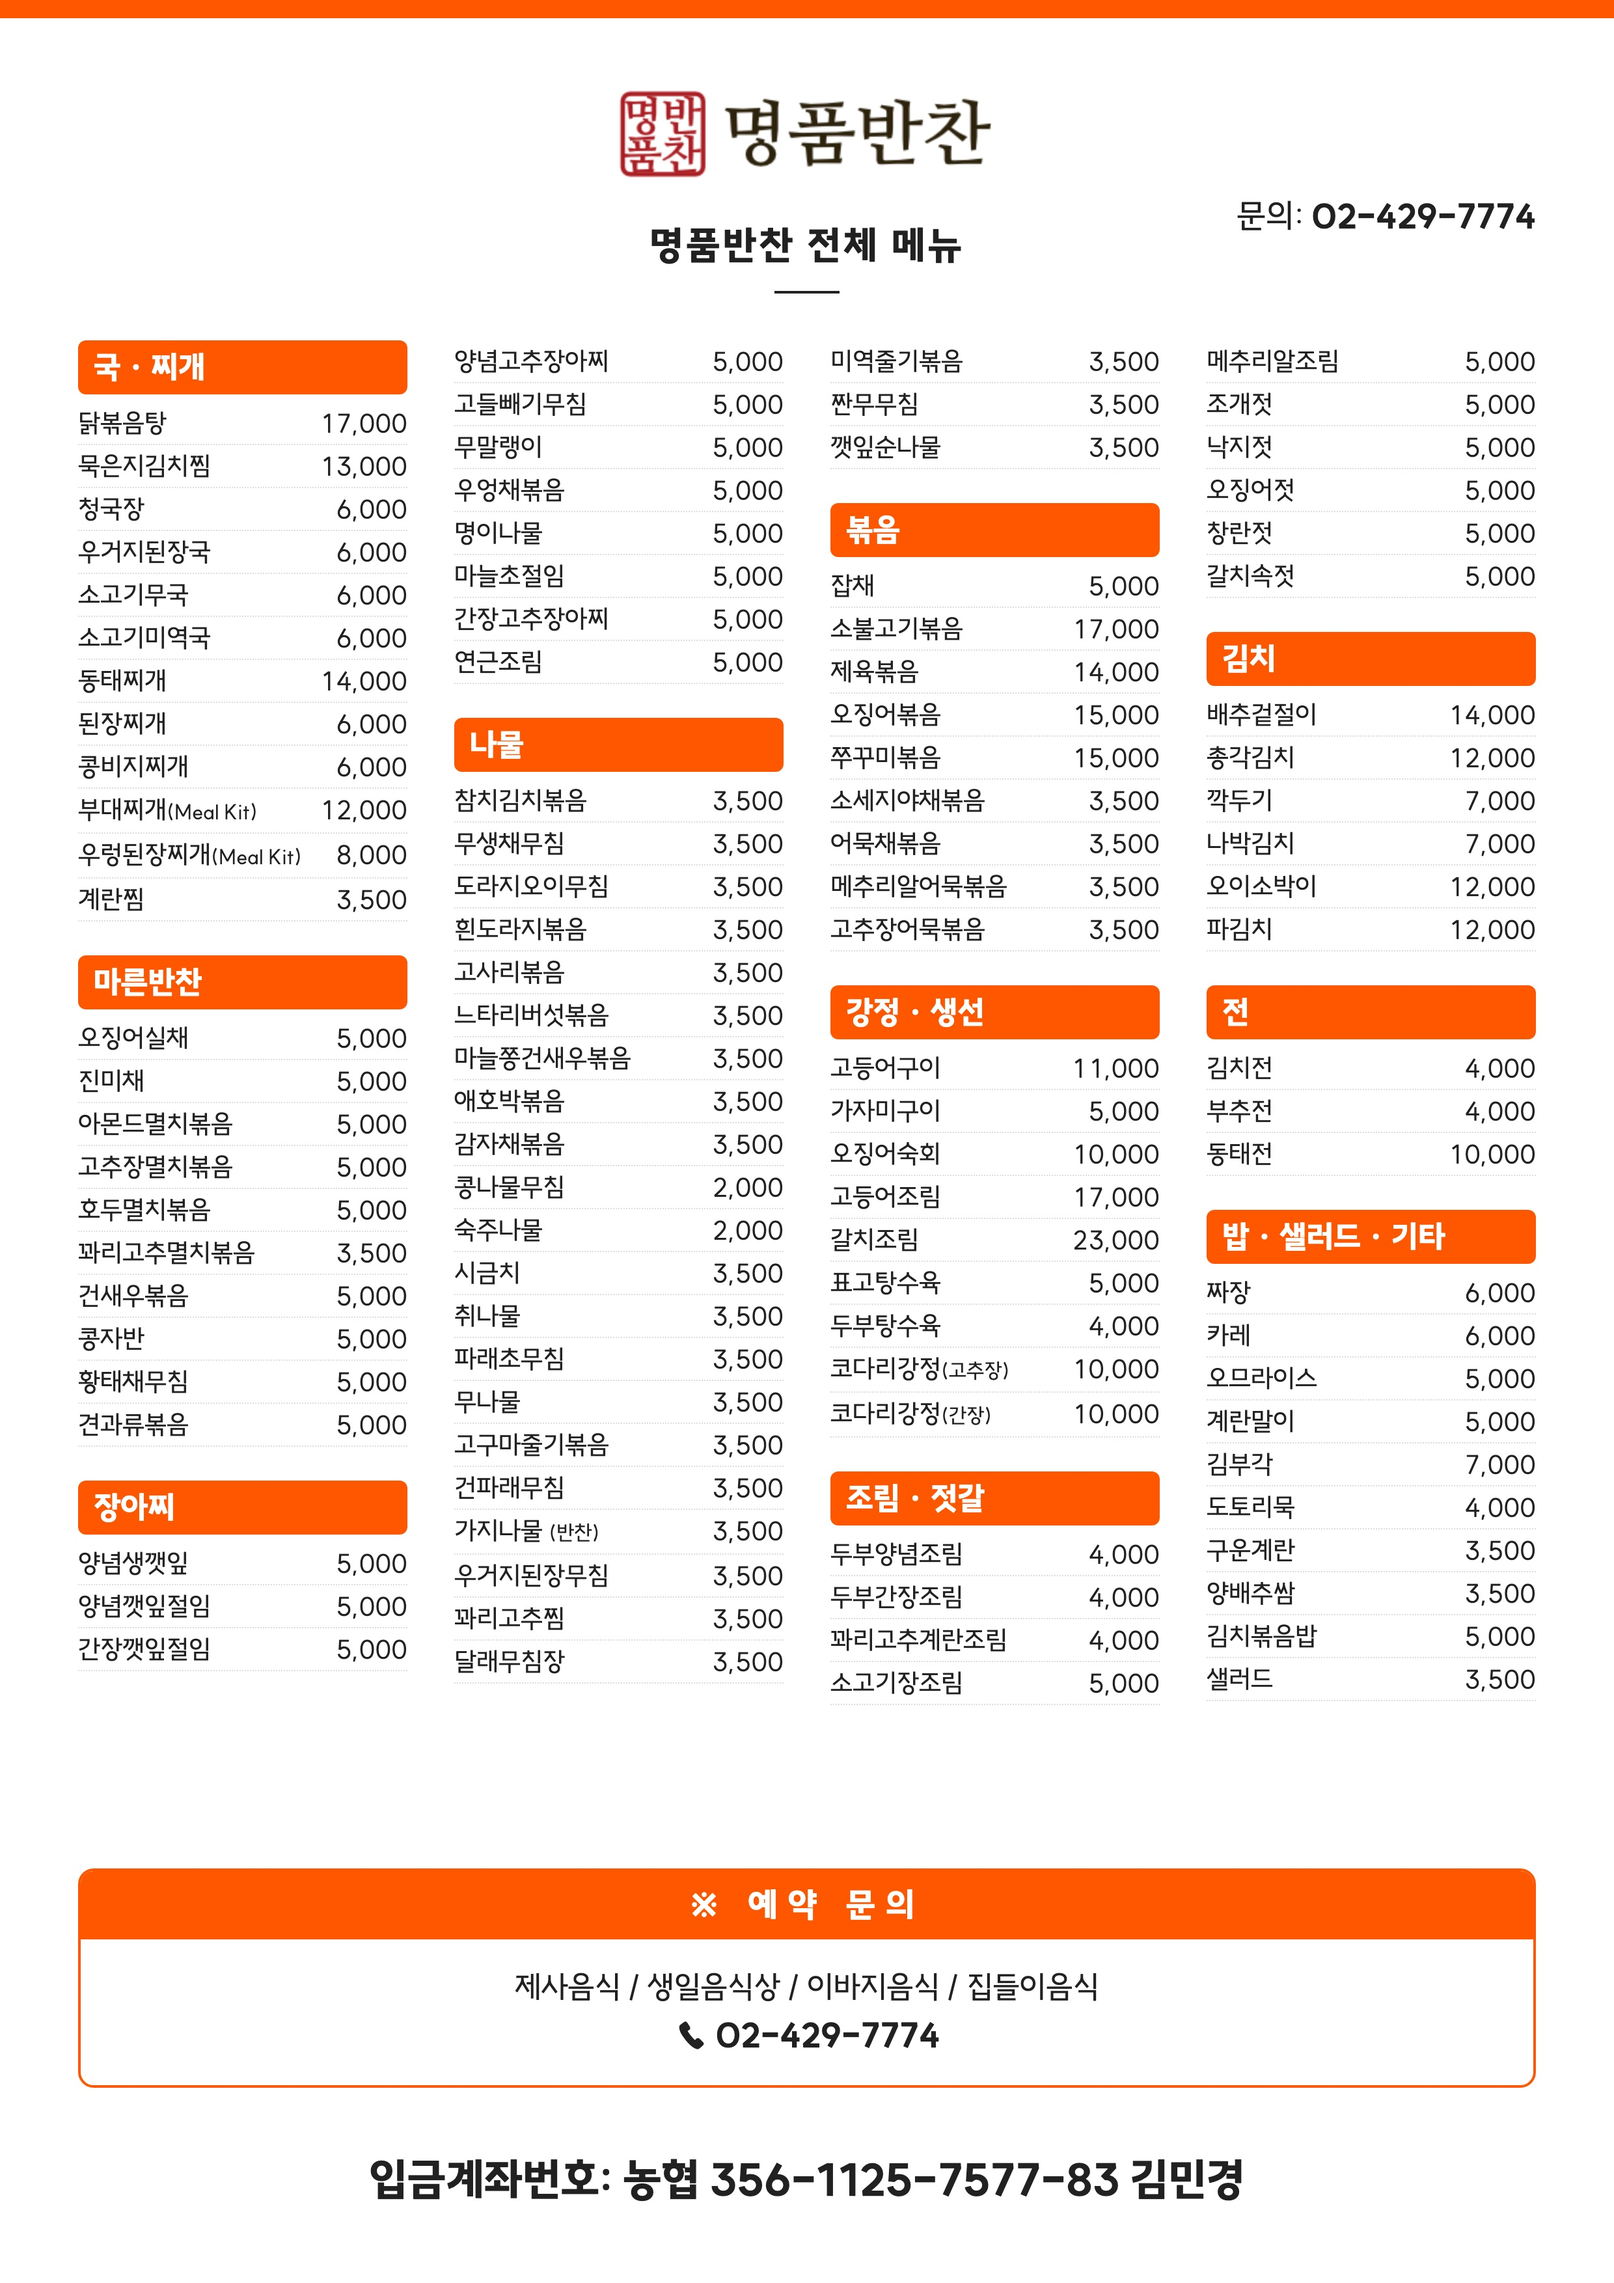
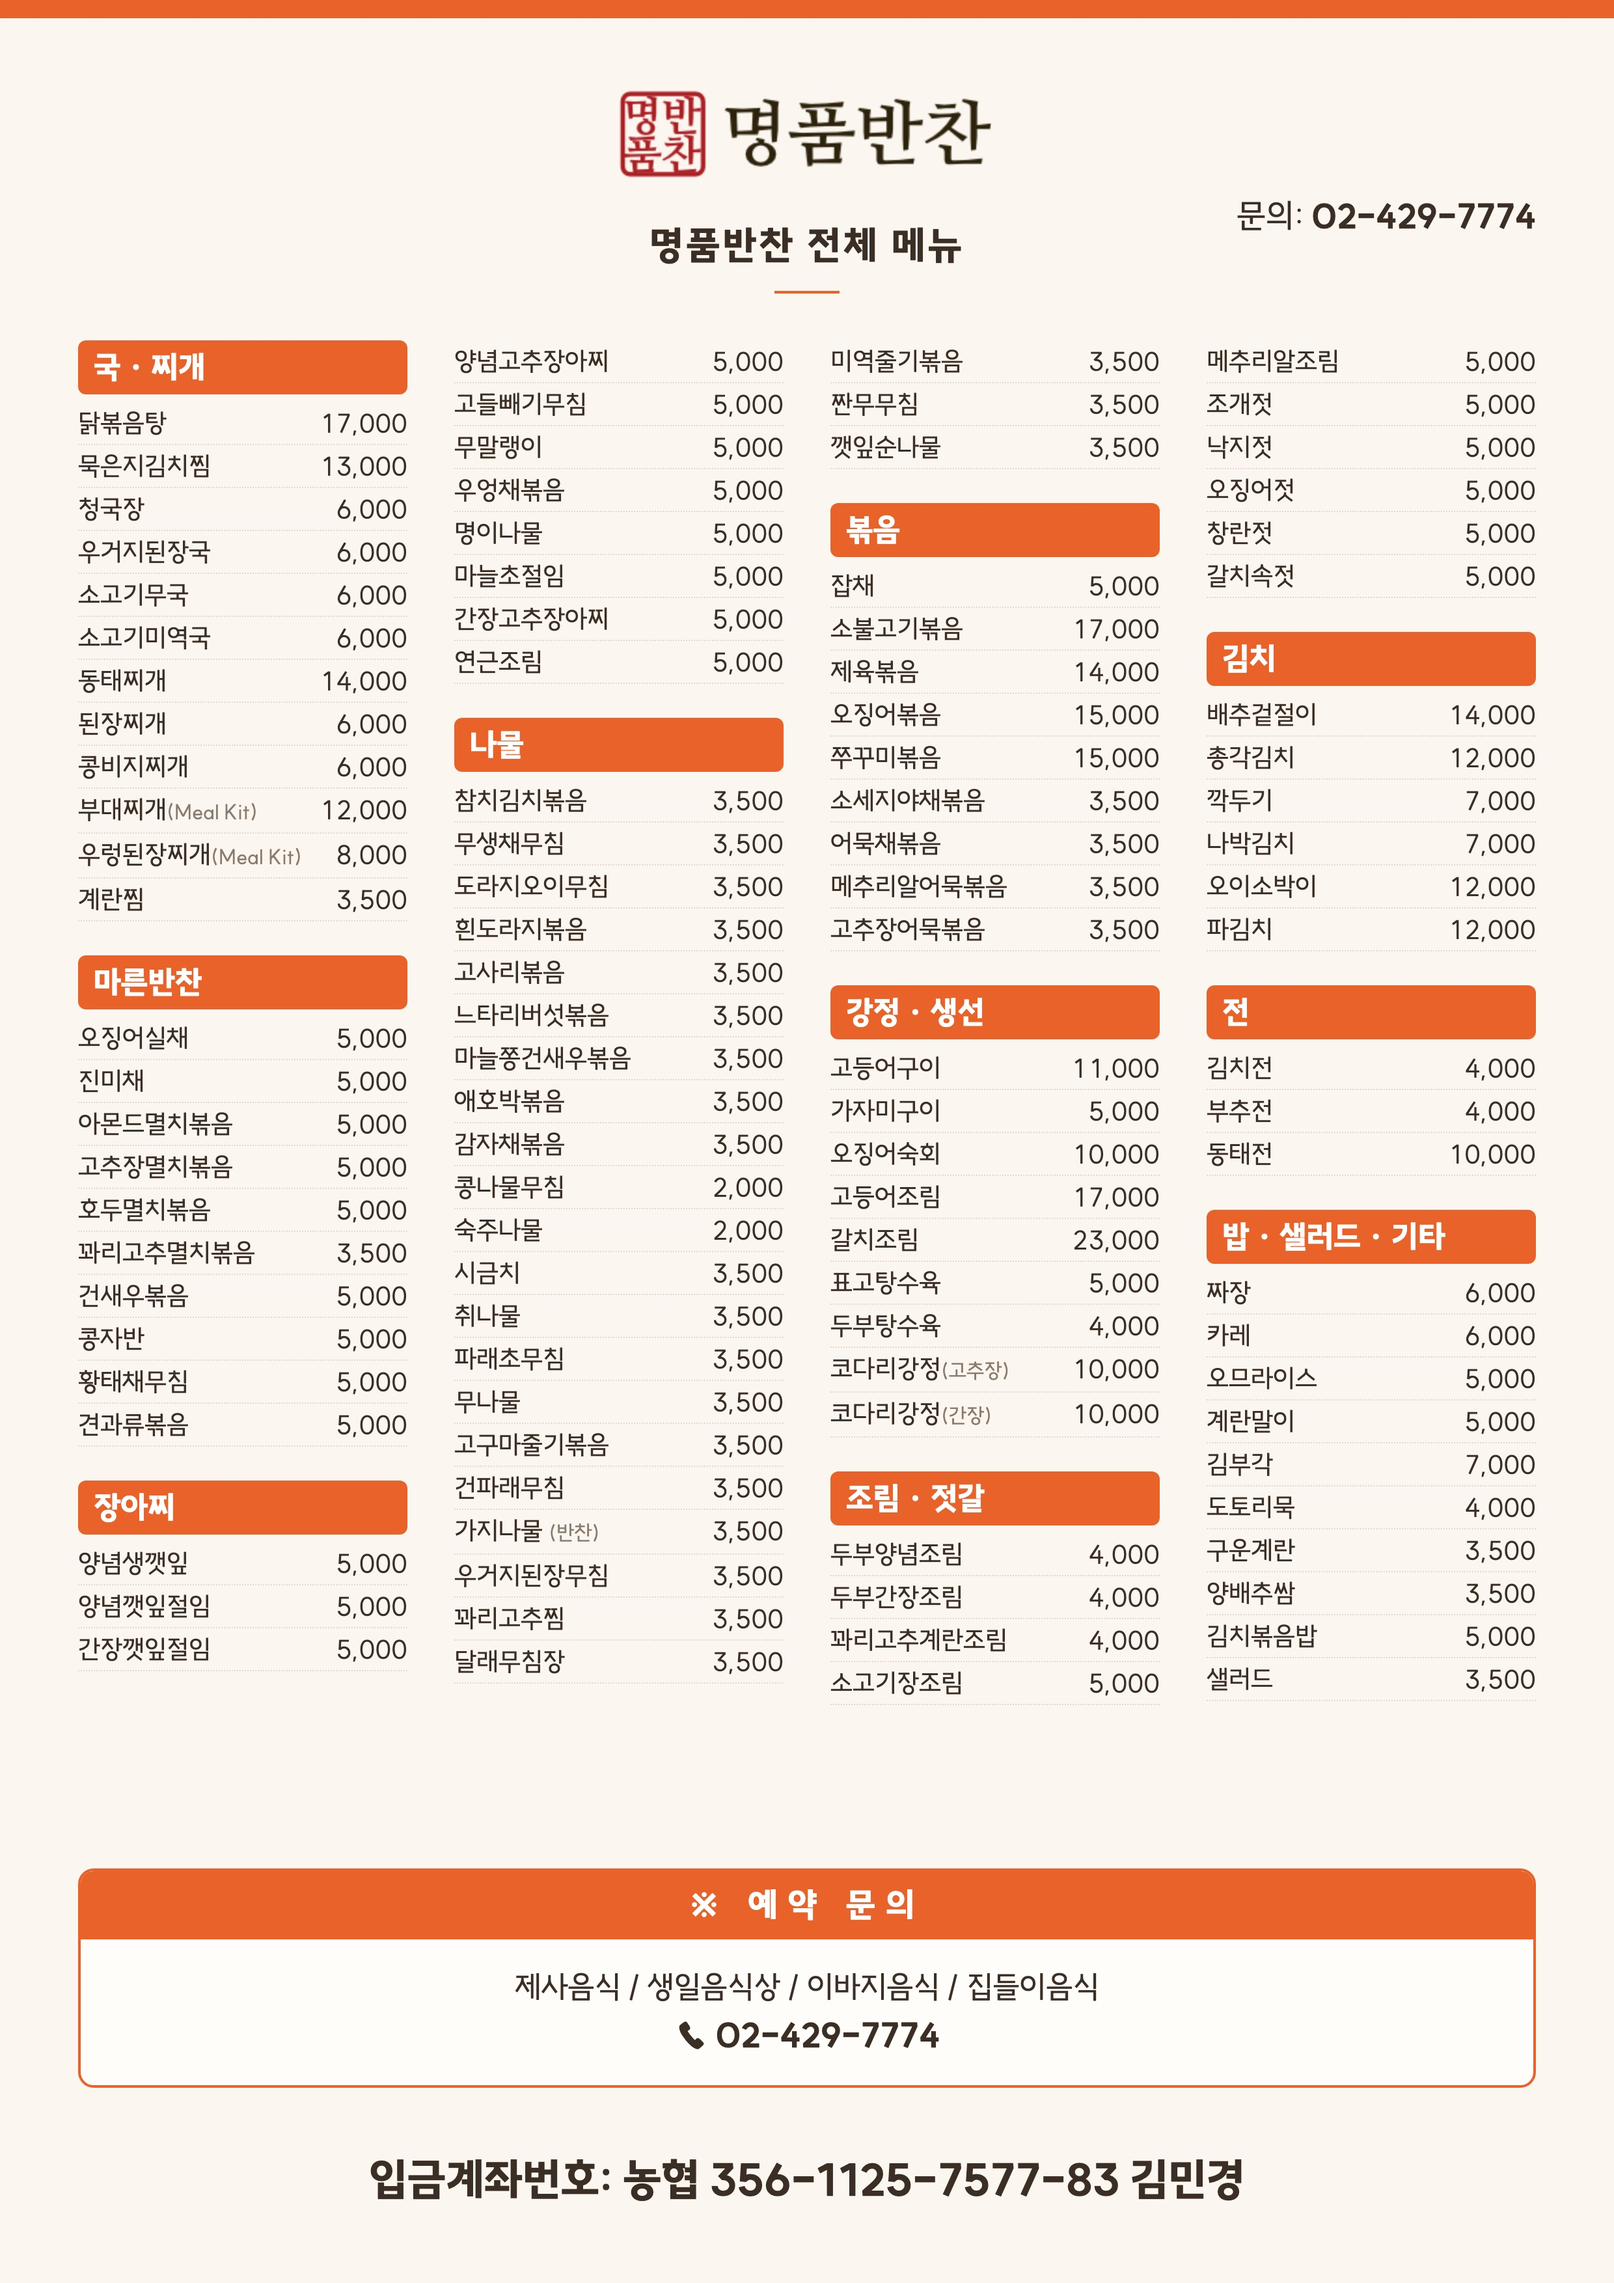
메뉴판 색을 로고에 맞춘 따뜻한 톤으로 조정
- 바탕 흰색 → 미색(#fbf7f0), 글자 검정 → 짙은 갈색(#3a2e25)
- 주황을 조금 차분하게(#ff5700 → #e8622a), 점선·괄호 글자도 같은 톤으로
- 예약 문의 상자 안은 밝게 해서 바탕과 구분

diff --git a/tools/menuboard.py b/tools/menuboard.py
@@ -34,27 +34,29 @@ page = f'''<!doctype html>
 @font-face {{ font-family: SUITE; font-weight: 400; src: url({fonts}/SUITE-Regular.woff2) format("woff2"); }}
 @font-face {{ font-family: SUITE; font-weight: 800; src: url({fonts}/SUITE-ExtraBold.woff2) format("woff2"); }}
 * {{ box-sizing: border-box; margin: 0; padding: 0; }}
-html, body {{ width: 1240px; height: 1754px; background: #fff; }}
-body {{ font-family: SUITE, sans-serif; color: #212121; padding: 0 60px; position: relative; }}
-.bar {{ position: absolute; left: 0; right: 0; top: 0; height: 14px; background: #ff5700; }}
+/* 색: 로고의 짙은 갈색·붉은 도장에 맞춘 따뜻한 톤 */
+:root {{ --bg: #fbf7f0; --ink: #3a2e25; --muted: #8a7b6d; --accent: #e8622a; --line: #e4d9ca; --card: #fffdf9; }}
+html, body {{ width: 1240px; height: 1754px; background: var(--bg); }}
+body {{ font-family: SUITE, sans-serif; color: var(--ink); padding: 0 60px; position: relative; }}
+.bar {{ position: absolute; left: 0; right: 0; top: 0; height: 14px; background: var(--accent); }}
 header {{ padding-top: 58px; text-align: center; }}
 header img {{ width: 300px; height: 90px; }}
 .sub {{ margin-top: 18px; font-size: 30px; font-weight: 800; letter-spacing: 2px; }}
-.sub::after {{ content: ""; display: block; width: 50px; height: 2px; margin: 16px auto 0; background: #212121; }}
+.sub::after {{ content: ""; display: block; width: 50px; height: 2px; margin: 16px auto 0; background: var(--accent); }}
 .contact {{ position: absolute; right: 60px; top: 150px; font-size: 26px; text-align: right; }}
 .contact b {{ font-weight: 800; }}
 main {{ margin-top: 36px; height: 1130px; column-count: 4; column-gap: 36px; column-fill: balance; }}
 .cat {{ margin-bottom: 26px; }}
 .cat h2 {{ break-after: avoid; }}
 .cat li {{ break-inside: avoid; }}
-.cat h2 {{ font-size: 24px; font-weight: 800; color: #fff; background: #ff5700; border-radius: 6px; padding: 6px 12px; margin-bottom: 6px; }}
-.cat li {{ list-style: none; display: flex; justify-content: space-between; gap: 8px; font-size: 20px; line-height: 32px; border-bottom: 1px dotted #ddd; }}
+.cat h2 {{ font-size: 24px; font-weight: 800; color: #fff; background: var(--accent); border-radius: 6px; padding: 6px 12px; margin-bottom: 6px; }}
+.cat li {{ list-style: none; display: flex; justify-content: space-between; gap: 8px; font-size: 20px; line-height: 32px; border-bottom: 1px dotted var(--line); }}
 .cat .n {{ white-space: nowrap; }}
-.cat .n small {{ font-size: .8em; }}
+.cat .n small {{ font-size: .8em; color: var(--muted); }}
 .cat .p {{ font-variant-numeric: tabular-nums; white-space: nowrap; }}
 .note {{ font-size: 15px; color: #777; text-align: right; margin-top: -8px; }}
-.reserve {{ position: absolute; left: 60px; right: 60px; bottom: 150px; border: 2px solid #ff5700; border-radius: 12px; overflow: hidden; text-align: center; }}
-.reserve h3 {{ background: #ff5700; color: #fff; font-size: 26px; font-weight: 800; letter-spacing: 8px; padding: 10px 0; }}
+.reserve {{ position: absolute; left: 60px; right: 60px; bottom: 150px; border: 2px solid var(--accent); border-radius: 12px; overflow: hidden; text-align: center; background: var(--card); }}
+.reserve h3 {{ background: var(--accent); color: #fff; font-size: 26px; font-weight: 800; letter-spacing: 8px; padding: 10px 0; }}
 .reserve p {{ font-size: 24px; padding: 22px 0 6px; }}
 .reserve p + p {{ padding: 0 0 22px; font-size: 26px; font-weight: 800; }}
 .account {{ position: absolute; left: 0; right: 0; bottom: 58px; text-align: center; font-size: 34px; font-weight: 800; }}
